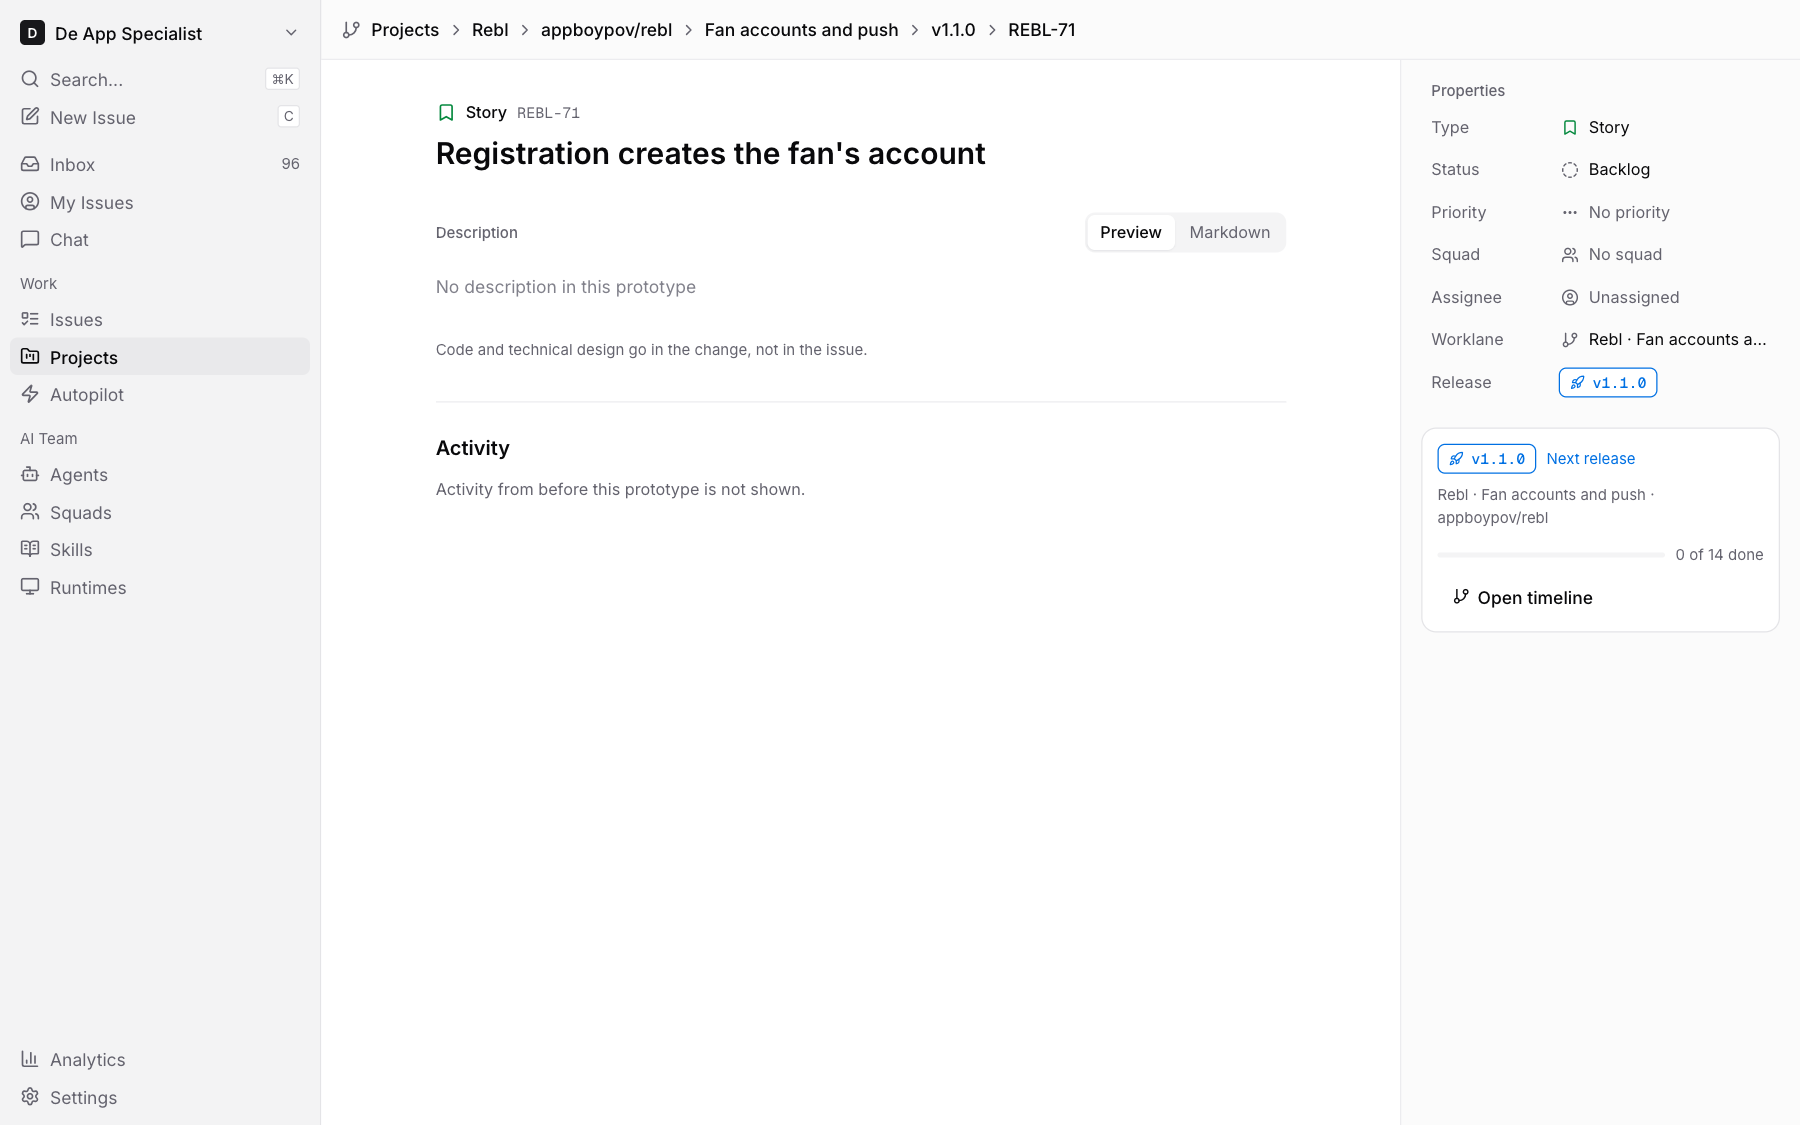
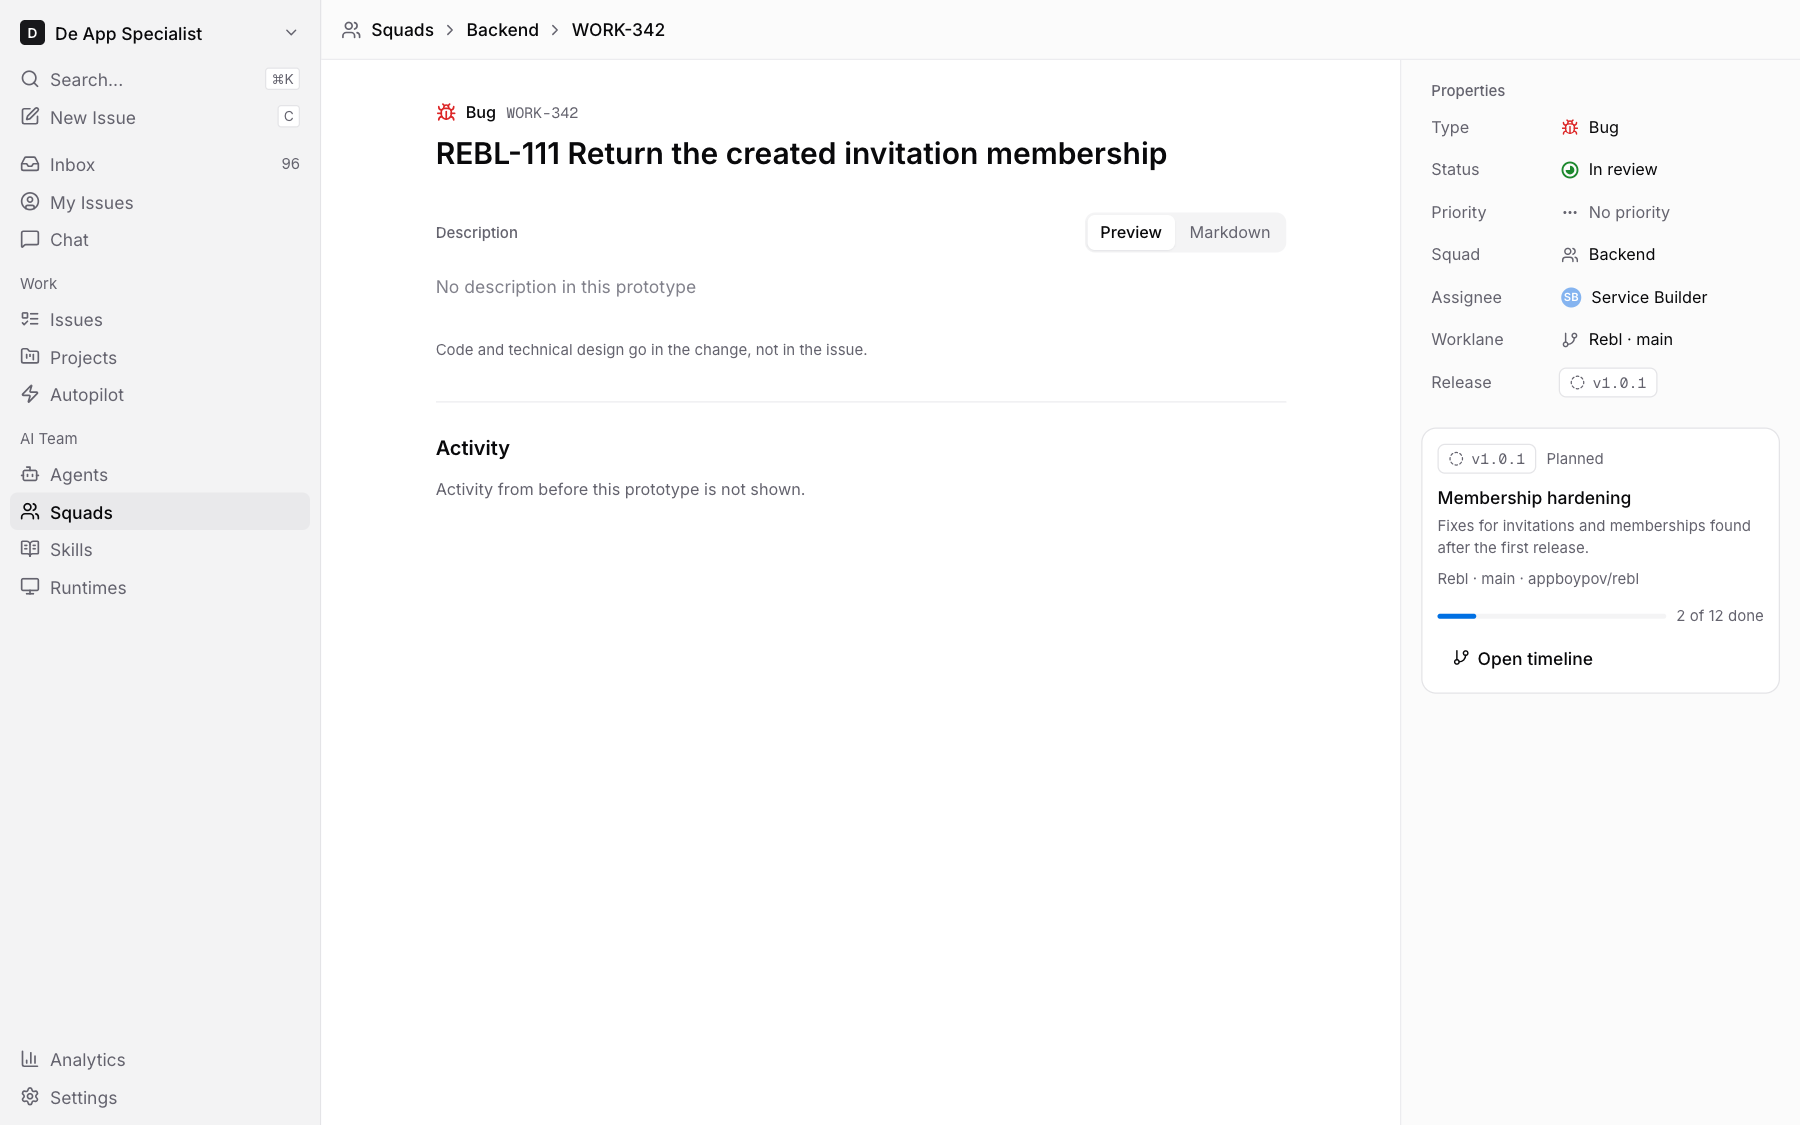
feat(design): give releases a title and a description

diff --git a/designs/creation-flows.md b/designs/creation-flows.md
@@ -24,7 +24,7 @@ flowchart LR
 
 - **Repository** (in one project): a GitHub repository (`owner/name`, default branch), its checkout on a runtime (machine plus path), and its version policy: where the version lives (for example `pubspec.yaml`, `package.json` or tags only) and the tag pattern (`v{version}`). Adding a repository adds its worklane `main` at the same time.
 - **Worklane** (in one repository): a name, a folder, the runtime its worktree lives on, the squad that works it, and an order. Its worktree path follows from these: `~/Worktrees/{project key}/{folder}/{repo}`. Its state follows from its line: Busy with the active issue's branch, or Free. A worklane without a worktree does not exist, so creating a worklane creates its worktree.
-- **Release** (in one repository): a version and its issues. Each worklane's timeline shows the repository's releases with that lane's issues in them. The version is the repository's because a repository has one tag sequence, and a release is cut from the default branch with everything merged into it, whichever lane did the work.
+- **Release** (in one repository): a version, a title, a description and its issues. Each worklane's timeline shows the repository's releases with that lane's issues in them, each under its version, title and description. The squad board's next releases and an issue's release card show the title too. The version is the repository's because a repository has one tag sequence, and a release is cut from the default branch with everything merged into it, whichever lane did the work.
 - **Issue**: has at most one worklane and at most one release, and the release must belong to that worklane's repository.
 
 ## Add repository
@@ -55,9 +55,13 @@ Brian's yes is the click, and it is recorded on the worklane's activity.
 Opened from a worklane timeline's "Plan release" button, at the end of the timeline. It is a dialog.
 
 1. **Version**: Patch, Minor or Major, each showing the version it gives after the repository's last planned release (for example v1.0.2, v1.1.0 or v2.0.0). Patch is preselected.
-2. **Issues**: this worklane's issues that are in no release yet, with their type icon, ID, title and status, to tick. Issues can also be added later from the timeline.
-3. **Ships**: a read-only line about what happens when it ships. When all its issues are done and merged, Multica tags `v1.1.0` on `main`, writes the release note, publishes the GitHub release, and asks you to pass it. A release has no date until it ships.
-4. **Plan release** adds the release to the end of the repository's release line. On this worklane's timeline it appears in place with the chosen issues, and on the other worklanes of the repository it appears empty.
+2. **Title**: a short name for the release, for example "Account and profile". Required.
+3. **Description**: what the release brings, in a few sentences. Optional.
+4. **Issues**: this worklane's issues that are in no release yet, with their type icon, ID, title and status, to tick. Issues can also be added later from the timeline.
+5. **Ships**: a read-only line about what happens when it ships. When all its issues are done and merged, Multica tags `v1.1.0` on `main`, writes the release note, publishes the GitHub release, and asks you to pass it. A release has no date until it ships.
+6. **Plan release** adds the release to the end of the repository's release line. On this worklane's timeline it appears in place with the chosen issues, and on the other worklanes of the repository it appears empty.
+
+The button stays disabled until the release has a title.
 
 ## Decisions
 
